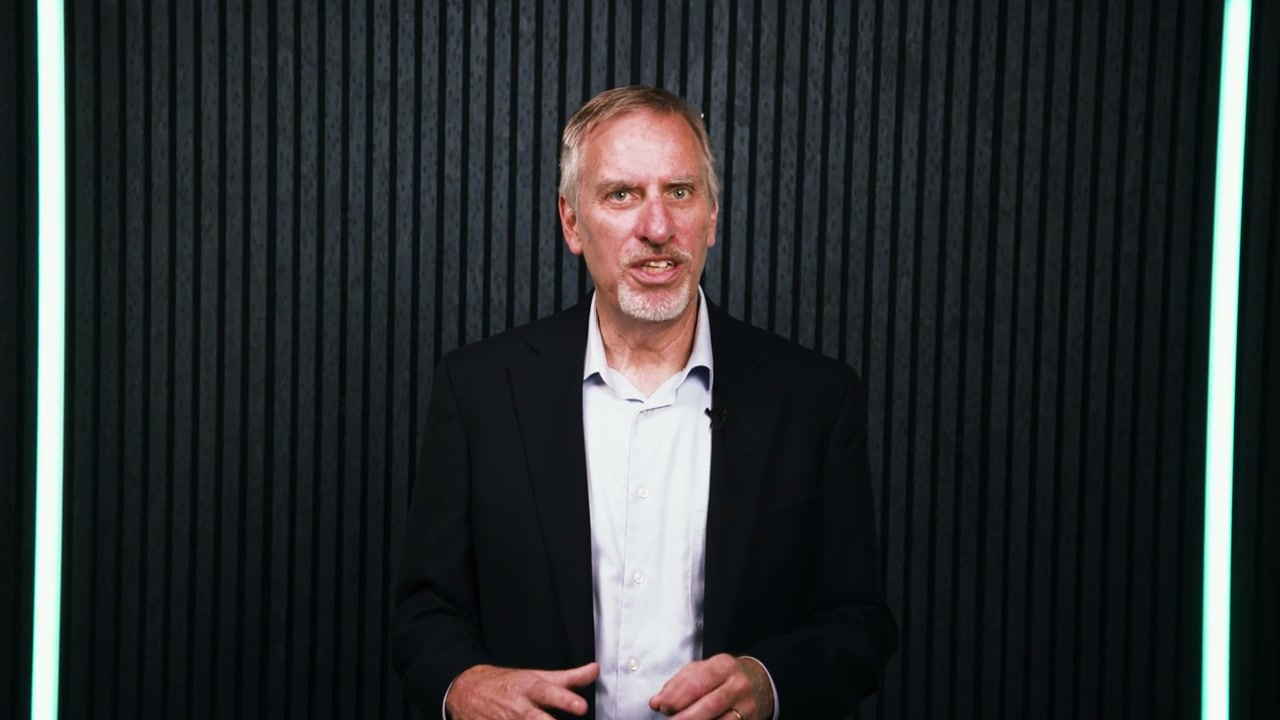
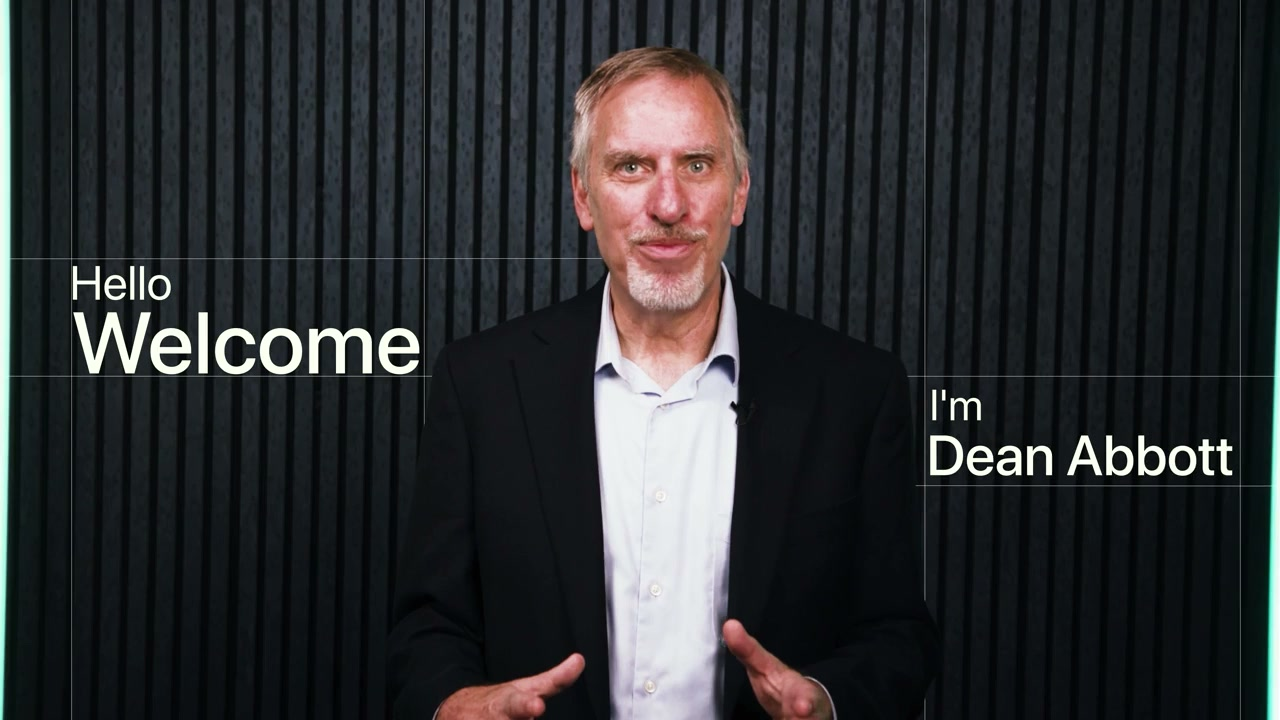
VSL: 16:9 fix, cleaner poster frame, phone play button below the face

Changed region(s): [[0.0, 0.0, 1.0, 1.0]]

diff --git a/index.html b/index.html
@@ -81,7 +81,7 @@ h1,h2,h3,h4{font-family:var(--display);color:var(--ink);font-weight:600;letter-s
   box-shadow:0 40px 90px -40px rgba(0,29,87,.4),inset 0 1px 0 #fff}
 .bezel-core{position:relative;border-radius:21px;overflow:hidden;background:var(--navy-deep);box-shadow:inset 0 0 0 1px rgba(255,255,255,.08)}
 .player{width:min(900px,100%);margin:44px auto 0}
-.player video{display:block;width:100%;aspect-ratio:16/9;object-fit:cover;background:#000}
+.player video{display:block;width:100%;height:auto;aspect-ratio:16/9;object-fit:cover;background:#000}
 .play{position:absolute;inset:0;z-index:2;display:flex;flex-direction:column;align-items:center;justify-content:center;gap:14px;border:0;cursor:pointer;
   background:linear-gradient(180deg,rgba(2,6,28,.04),rgba(2,6,28,.34));color:#fff;font:600 17px/1.2 var(--display);transition:opacity .4s var(--ease),background .4s var(--ease)}
 .play:hover{background:linear-gradient(180deg,rgba(2,6,28,0),rgba(2,6,28,.26))}
@@ -101,7 +101,7 @@ h1,h2,h3,h4{font-family:var(--display);color:var(--ink);font-weight:600;letter-s
 .bar span{display:block;height:100%;width:0;background:var(--accent)}
 .player.started .bar{opacity:1}
 .endcard{position:absolute;inset:0;z-index:4;display:grid;place-items:center;align-content:center;gap:18px;padding:24px;text-align:center;
-  background:linear-gradient(rgba(2,6,28,.7),rgba(2,6,28,.82)),url(assets/vsl-poster.jpg) center/cover;opacity:0;pointer-events:none;transition:opacity .5s var(--ease)}
+  background:linear-gradient(rgba(2,6,28,.7),rgba(2,6,28,.82)),url(assets/vsl-poster.jpg?v=2) center/cover;opacity:0;pointer-events:none;transition:opacity .5s var(--ease)}
 .player.ended .endcard{opacity:1;pointer-events:auto}
 .player.ended .hold,.player.ended .bar{display:none}
 .endcard p{color:#fff;font:600 clamp(20px,2.4vw,28px)/1.25 var(--display);letter-spacing:-.02em;max-width:24ch}
@@ -343,9 +343,11 @@ h1,h2,h3,h4{font-family:var(--display);color:var(--ink);font-weight:600;letter-s
   .player{margin-top:36px}
   .bezel{padding:6px;border-radius:22px}
   .bezel-core{border-radius:17px}
-  .play .disc{width:66px;height:66px}
-  .play .disc svg{width:22px;height:22px}
-  .play .label{font-size:14px;padding:7px 14px}
+  .play{flex-direction:row;justify-content:center;align-items:flex-end;gap:10px;padding-bottom:14px}
+  .play .disc{width:52px;height:52px}
+  .play .disc::after{inset:-7px}
+  .play .disc svg{width:20px;height:20px}
+  .play .label{font-size:13.5px;padding:8px 13px;margin-bottom:9px}
   .chip{top:10px;left:10px;font-size:10.5px;padding:7px 11px}
   .endcard{gap:10px;padding:12px}
   .endcard p{display:none}
@@ -409,7 +411,7 @@ h1,h2,h3,h4{font-family:var(--display);color:var(--ink);font-weight:600;letter-s
 
     <div class="player rise" id="player">
       <div class="bezel"><div class="bezel-core">
-        <video id="vsl" src="assets/intro.mp4" poster="assets/vsl-poster.jpg" preload="metadata" playsinline width="1280" height="720"></video>
+        <video id="vsl" src="assets/intro.mp4?v=2" poster="assets/vsl-poster.jpg?v=2" preload="metadata" playsinline width="1280" height="720"></video>
         <span class="chip"><i></i>Press play · 1:02</span>
         <button class="play" type="button" aria-label="Play Dean's intro video, 1 minute 2 seconds"><span class="disc"><svg width="30" height="30" viewBox="0 0 24 24" fill="#fff" aria-hidden="true"><path d="M8 5.5v13l11-6.5z"/></svg></span><span class="label">Watch Dean's Intro</span></button>
         <button class="hold" type="button" aria-label="Pause or resume the video"><span class="pz"><svg width="26" height="26" viewBox="0 0 24 24" fill="#fff" aria-hidden="true"><path d="M7 5h3.5v14H7zM13.5 5H17v14h-3.5z"/></svg></span></button>
